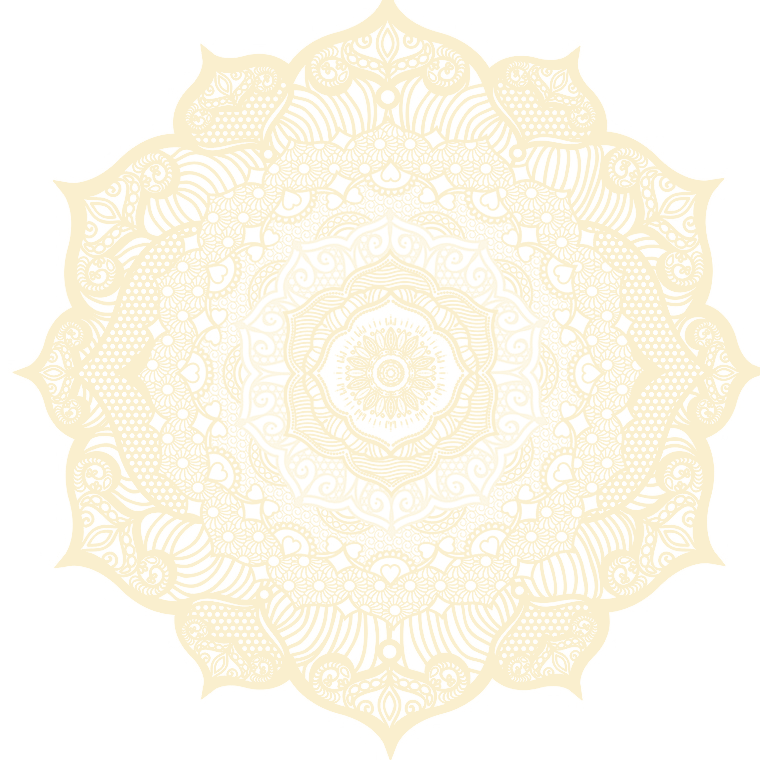
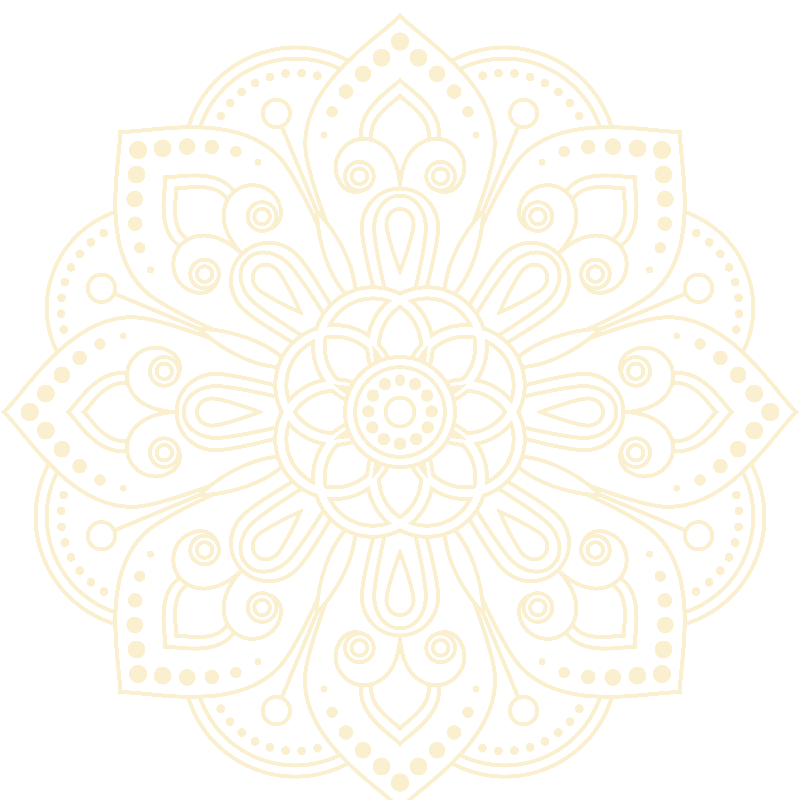
Replace chakra with simpler watermark-free mandala (mirrored to remove Getty watermark), gold

diff --git a/assets/style.css b/assets/style.css
@@ -143,7 +143,7 @@ body::before{
 .chakra-wrap{ position:absolute; transform:translateY(-50%); }
 .chakra-wrap.left{ left:-14%; top:40%; }
 .chakra-wrap.right{ right:-14%; top:62%; transform:translateY(-50%) scaleX(-1); }
-.chakra{ display:block; width:min(54vw,470px); height:auto; opacity:.18;
+.chakra{ display:block; width:min(54vw,470px); height:auto; opacity:.32;
   animation:spin 40s linear infinite; }
 .chakra-wrap.right .chakra{ animation-direction:reverse; }
 
@@ -639,7 +639,7 @@ body:not(.en) .foot-event .fe-date{ font-family:var(--bng); }
   .person-photo{ width:175px; height:175px; }
   .cap-icon{ height:66px; }
   .cap-icon.cap-mukut{ height:52px; }
-  .chakra{ width:66vw; opacity:.13; }
+  .chakra{ width:66vw; opacity:.22; }
   .festoon{ transform:scale(.72); transform-origin:top center; }
   .intro-frame{ padding:44px 26px; }
   body:not(.en) .lineage p{ grid-template-columns:80px 1fr; font-size:.96rem; }
